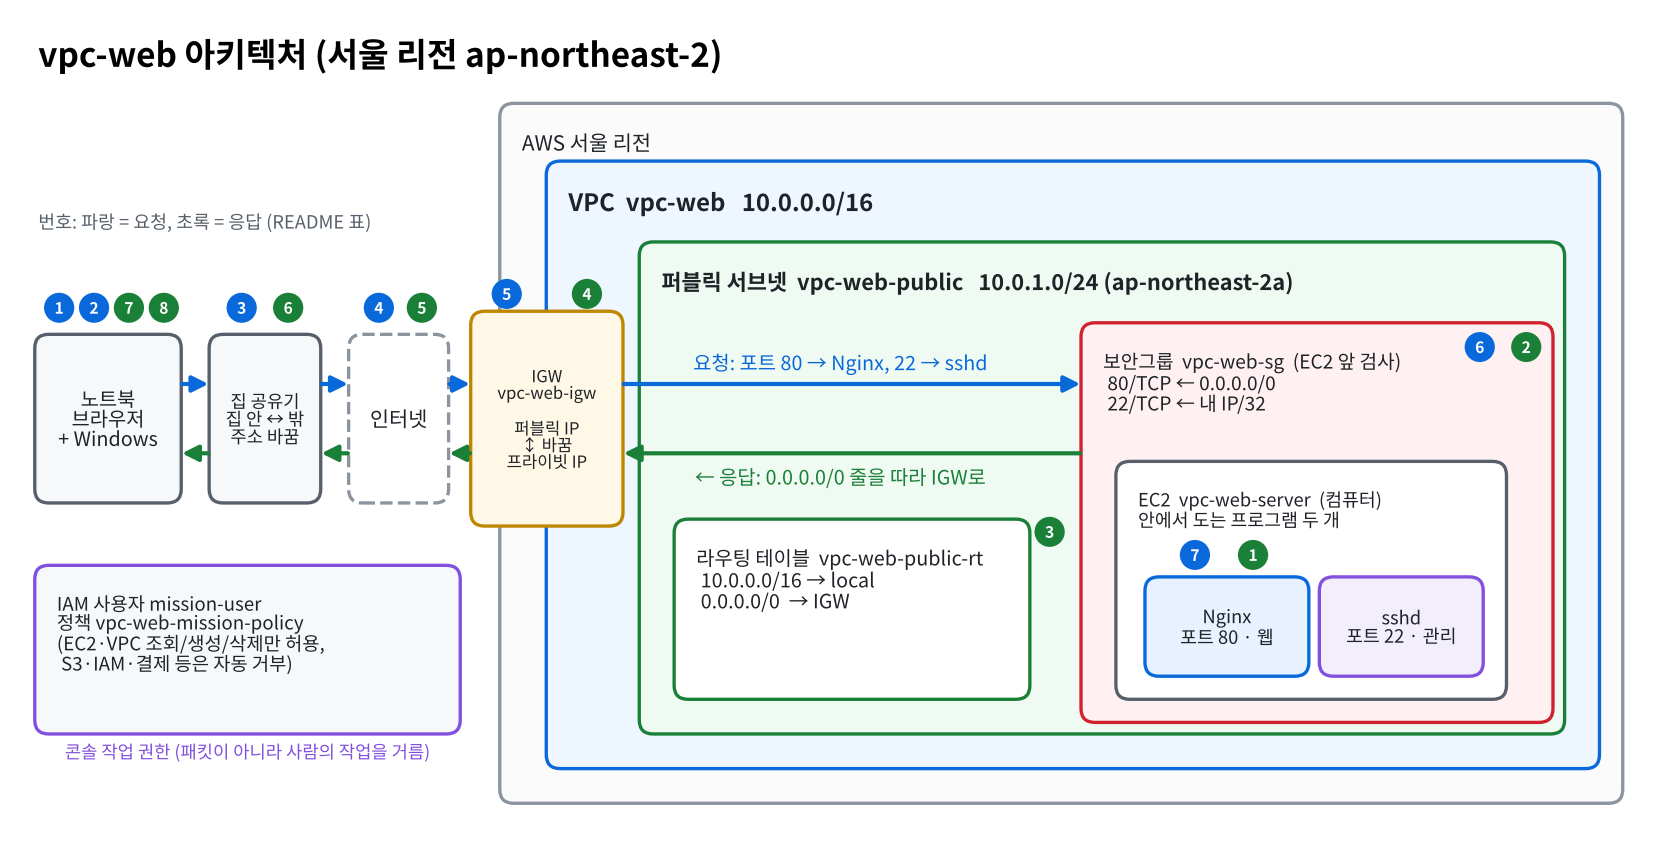
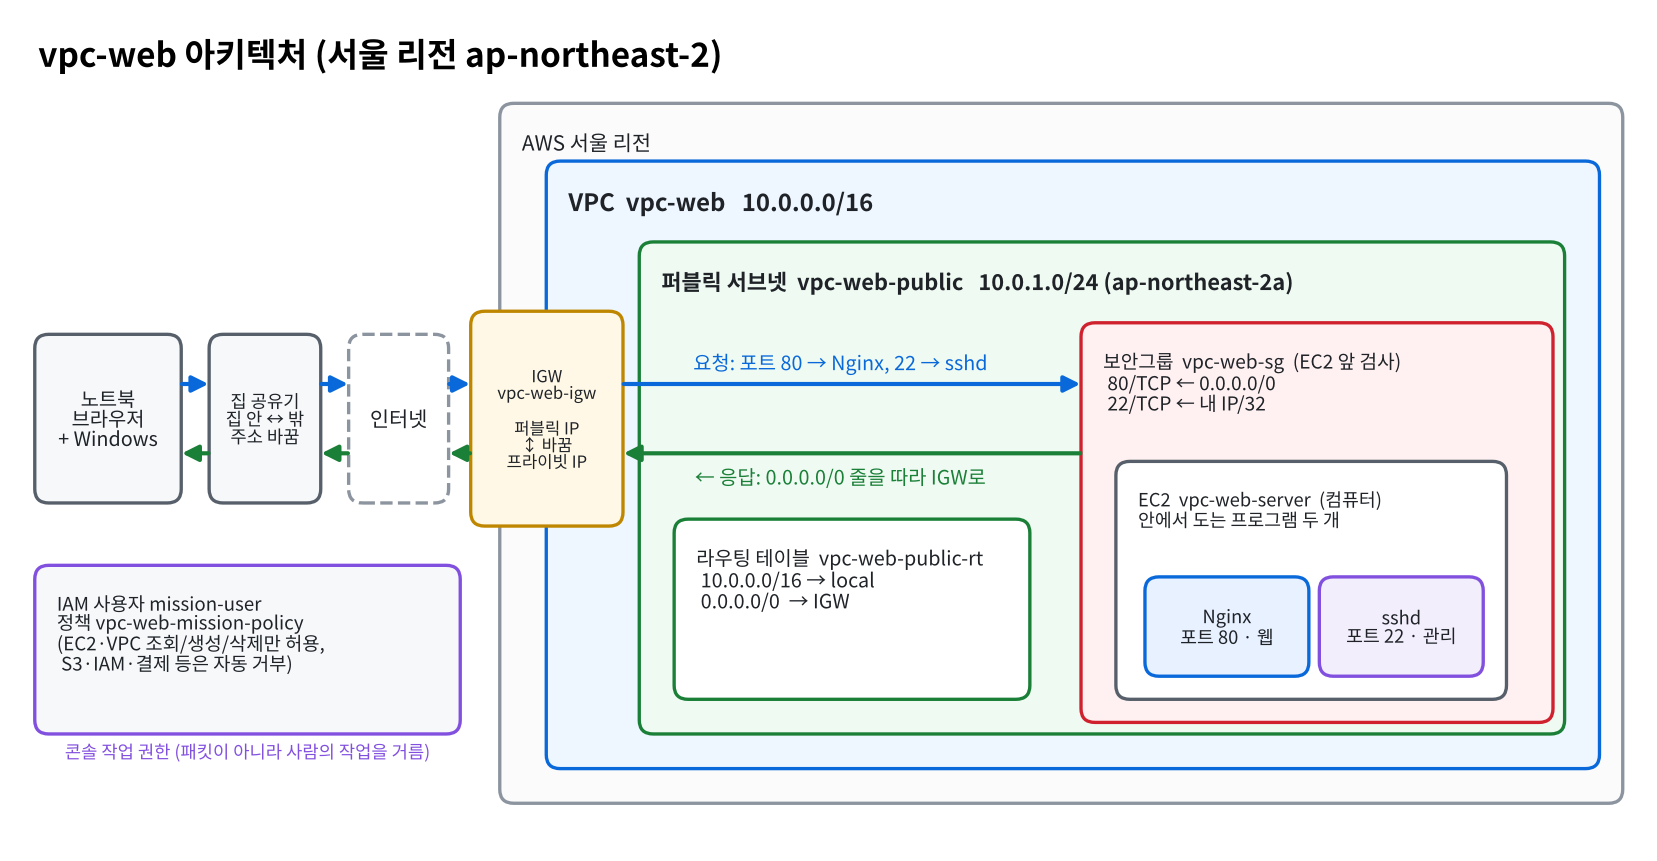
Diagram: remove step number markers
Claude-Session: https://claude.ai/code/session_018vfR5PU7nv7JTvqkj5N6xN

diff --git a/README.md b/README.md
@@ -27,9 +27,9 @@ AWS 서울 리전(`ap-northeast-2`)에 VPC → 퍼블릭 서브넷 → 인터넷
 
 ![아키텍처](docs/architecture.png)
 
-그림의 번호는 집 노트북 브라우저에서 `http://<퍼블릭IP>`를 열 때 패킷 한 장이 지나는 순서다. 패킷은 **겉면**(받는 주소, 받는 포트, 보낸 주소)과 **안쪽 내용**으로 이루어진다. 단계별로 따라가는 인터랙티브 버전: https://claude.ai/artifact/6D2QMqAfSYa9BRmFdRftFv
+아래 표는 집 노트북 브라우저에서 `http://<퍼블릭IP>`를 열 때 패킷 한 장이 지나는 순서다. 패킷은 **겉면**(받는 주소, 받는 포트, 보낸 주소)과 **안쪽 내용**으로 이루어진다. 단계별로 따라가는 인터랙티브 버전: https://claude.ai/artifact/6D2QMqAfSYa9BRmFdRftFv
 
-**요청 (파랑)**
+**요청**
 
 | # | 지점 | 하는 일 | 겉면에서 |
 |---|---|---|---|
@@ -41,7 +41,7 @@ AWS 서울 리전(`ap-northeast-2`)에 VPC → 퍼블릭 서브넷 → 인터넷
 | 6 | 보안그룹 | 80번 줄(소스 `0.0.0.0/0`)과 맞는지 보고 통과. 맞는 줄이 없으면 대답 없이 버림 → 시간 초과 | 포트·보낸 주소 읽음 |
 | 7 | Nginx | 80번에서 기다리던 Nginx가 받음. 22번이면 sshd가 받음. 기다리는 프로그램이 없으면 즉시 거부 | 포트 읽음 |
 
-**응답 (초록)**
+**응답**
 
 | # | 지점 | 하는 일 | 겉면에서 |
 |---|---|---|---|
